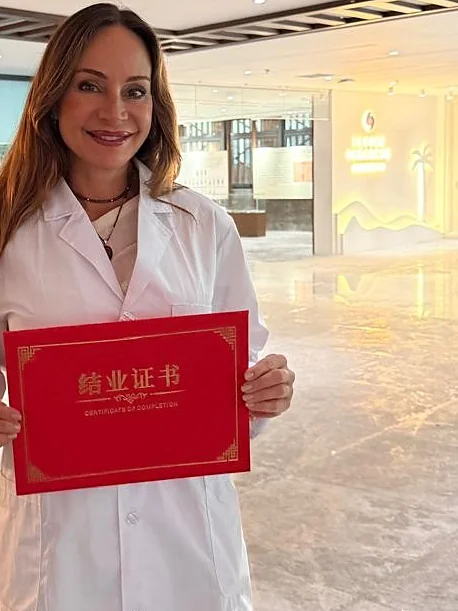
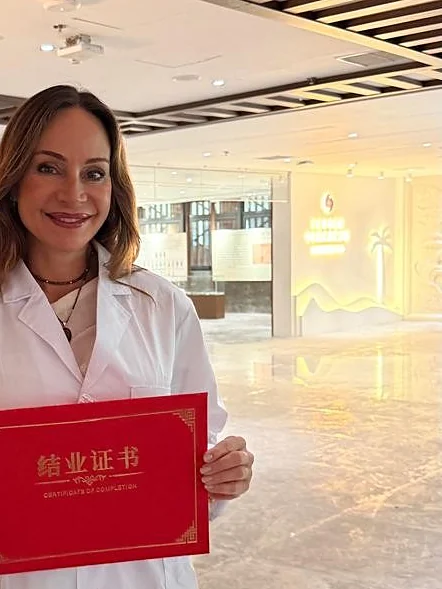
Changes

diff --git a/src/routes/index.tsx b/src/routes/index.tsx
@@ -179,8 +179,8 @@ function Index() {
             <img
               src={macaDoctora}
               alt="Macarena Cárdenas con bata blanca"
-              width={458}
-              height={611}
+              width={442}
+              height={589}
               decoding="async"
               className="w-full rounded-3xl border border-gold/40 object-cover shadow-soft"
             />
